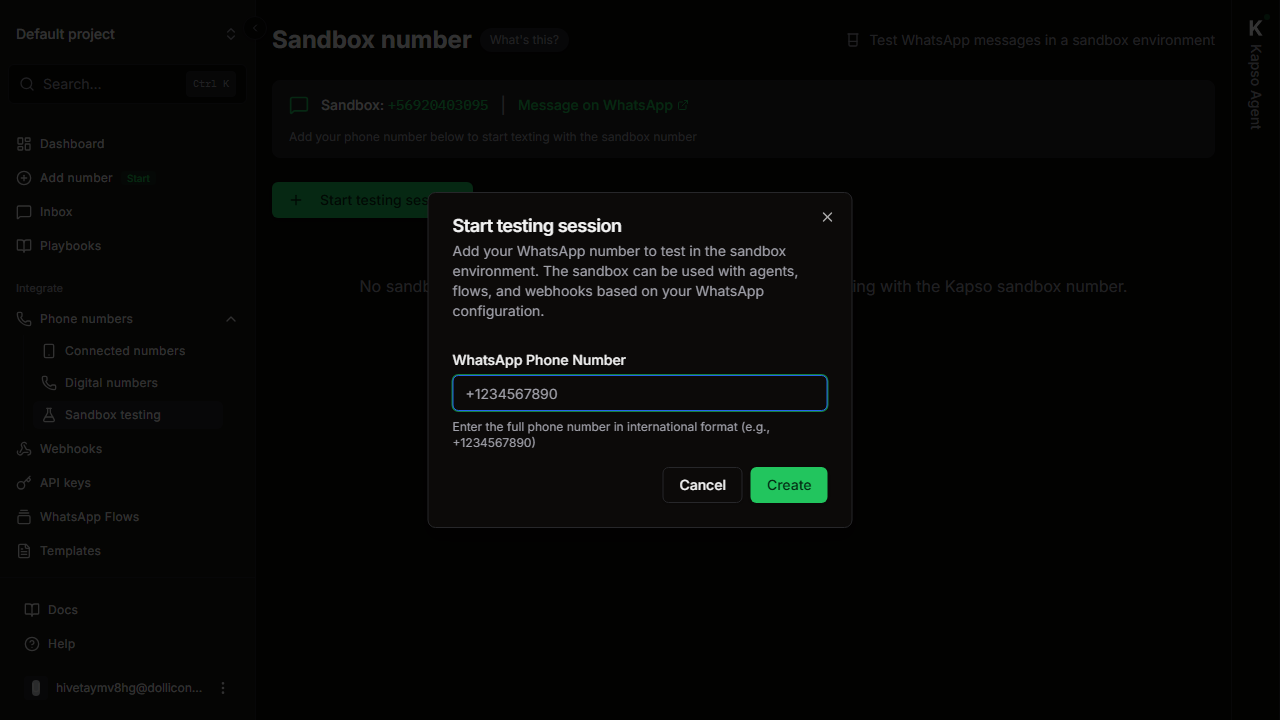
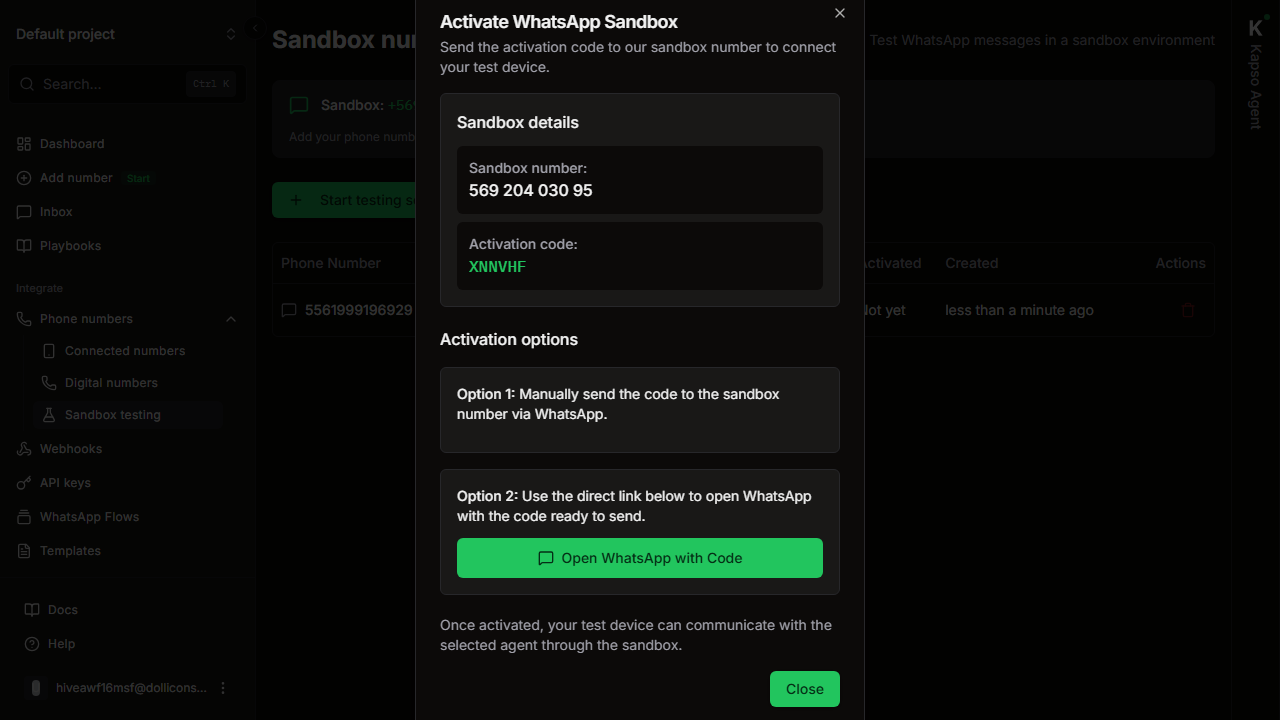
feat: add WhatsApp sandbox activation code extraction to kapso-setup script

diff --git a/scripts/kapso-setup.js b/scripts/kapso-setup.js
@@ -331,6 +331,22 @@ async function run(phoneNumber) {
     const sessionText = await page.textContent('body').catch(() => '');
     console.log(`[Session] Result: ${sessionText.replace(/\s+/g, ' ').slice(0, 500)}`);
 
+    // Extract activation code from the "Activate WhatsApp Sandbox" modal
+    const activationMatch = sessionText.match(/activation\s*code[:\s]*([A-Z0-9]{4,8})/i);
+    let activationCode = null;
+    if (activationMatch) {
+      activationCode = activationMatch[1];
+      console.log(`[Sandbox] Activation code: ${activationCode}`);
+      console.log(`[Sandbox] User must send "${activationCode}" to sandbox number via WhatsApp to activate`);
+    }
+
+    // Close the activation modal
+    const closeBtn = page.locator('button').filter({ hasText: /close/i }).first();
+    if (await closeBtn.isVisible({ timeout: 3000 }).catch(() => false)) {
+      await closeBtn.click();
+      await page.waitForTimeout(1000);
+    }
+
     // Step 7: Create API Key via sidebar
     console.log('\n=== Step 7: Create API Key ===');
 
